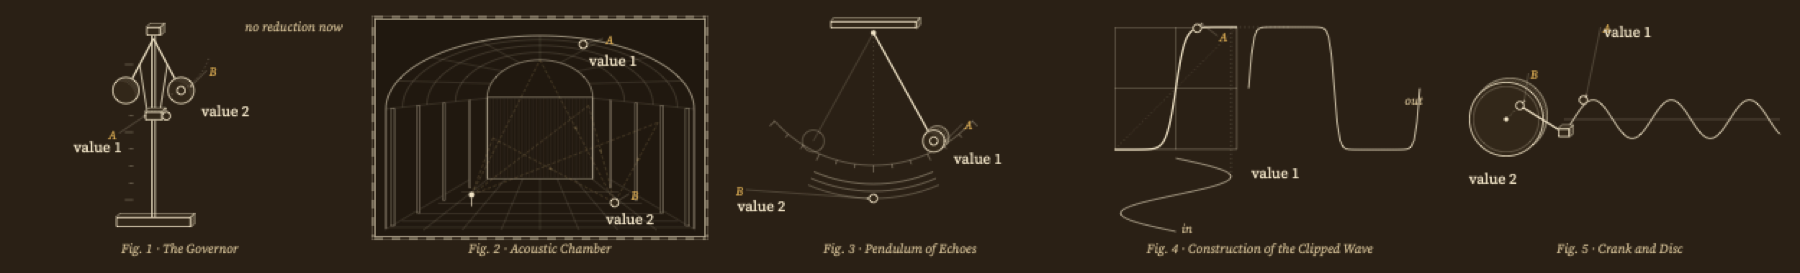
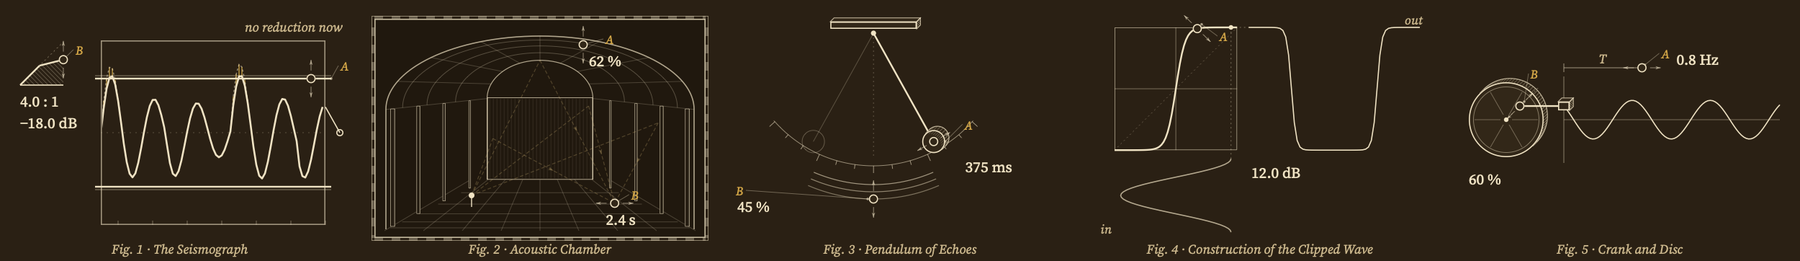
README: the seismograph and the key's instruments, plain dials and figure motion, multi-select; Atelier figure stills regenerated (they still showed the governor and 'value 1')

diff --git a/README.md b/README.md
@@ -114,12 +114,20 @@ theme, while a 4-bar loop plays:
 </table>
 
 In Atelier the chain is one engraving: each plug-in is a station on the drawn signal line, and its figure is an
-instrument you drag by its lettered parts: a flyball governor for dynamics, the vaulted acoustic chamber for reverbs,
+instrument you drag by its lettered parts: a two-pen seismograph for dynamics (the faint pen writes what comes in,
+the bold one what goes out, and gold hatching shows what was taken off), the vaulted acoustic chamber for reverbs,
 a pendulum for delays, a sine through its clipping curve for distortion, a crank and disc for modulation. Every
-parameter in the key is drawn as the instrument for its unit (slide rule, vernier, stopwatch, protractor, balance).
+parameter in the key is drawn as the instrument for its unit (a sextant for amounts, an octave rule for frequency, a
+stopwatch for time, a vernier for decibels, an inclined plane for ratio); Settings ▸ Appearance ▸ Plug-in controls
+swaps them for plain dials, and Figure motion chooses whether the figures keep moving under the pointer, or move only
+then.
 
-<p align="center"><img src="assets/screenshots/figures-atelier-dark.png" alt="Atelier's plug-in figures: governor, acoustic chamber, pendulum, clipped wave, crank and disc (Atelier Dark)" width="100%"><br>
+<p align="center"><img src="assets/screenshots/figures-atelier-dark.png" alt="Atelier's plug-in figures: seismograph, acoustic chamber, pendulum, clipped wave, crank and disc (Atelier Dark)" width="100%"><br>
 <img src="assets/screenshots/figures-atelier-light.png" alt="The same figures in Atelier Light" width="100%"><br><sub>Atelier's plug-in figures, dark and light</sub></p>
+
+Select several plug-ins in the Library or the browser and they go in together, in order; in the chain, ⌘-click or
+⇧-click several units and ⌫ removes them (each one undo step). A folded unit keeps its name, on/off switch and level
+in a narrow strip.
 
 Third-party plug-ins get the same treatment. The display is chosen from what a plug-in declares, its name and its
 parameters, and any unit can be switched to another display. Settings ▸ Plug-ins ▸ Safety runs each third-party
